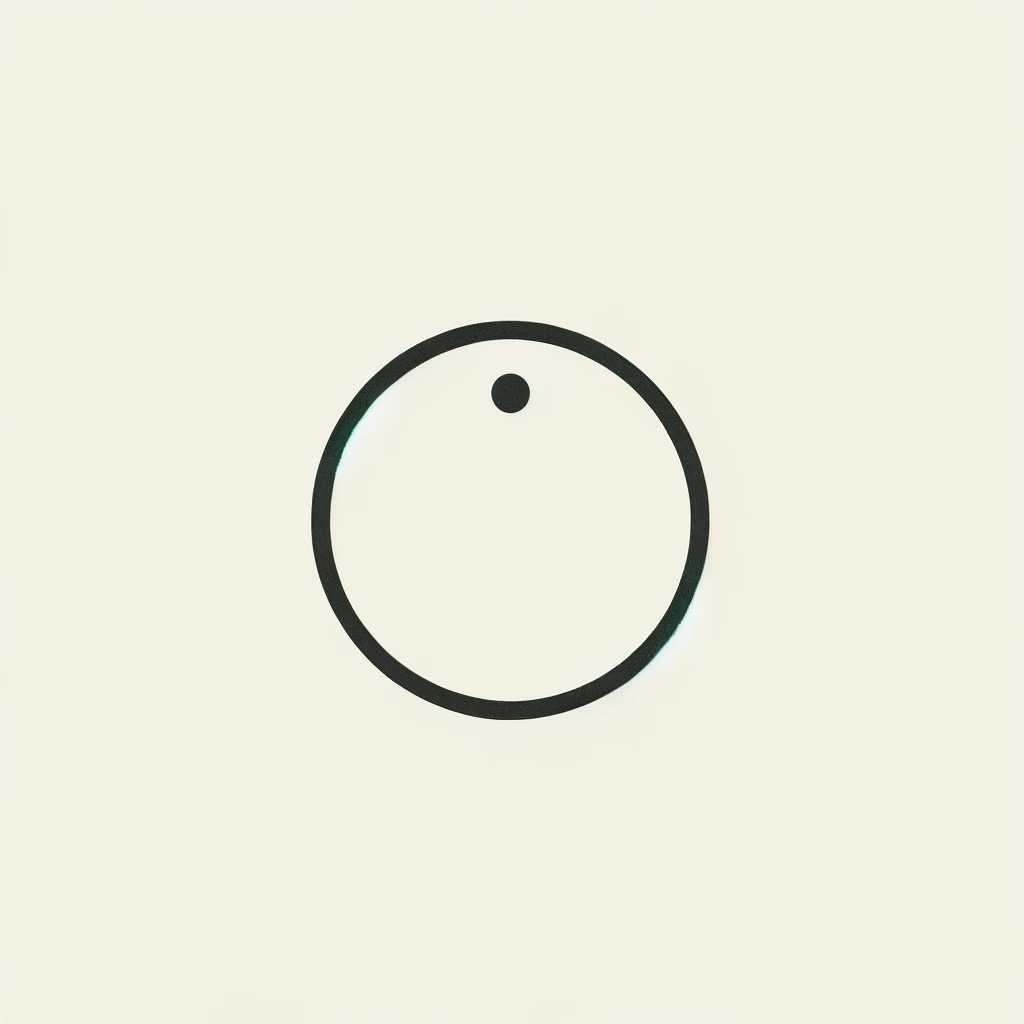
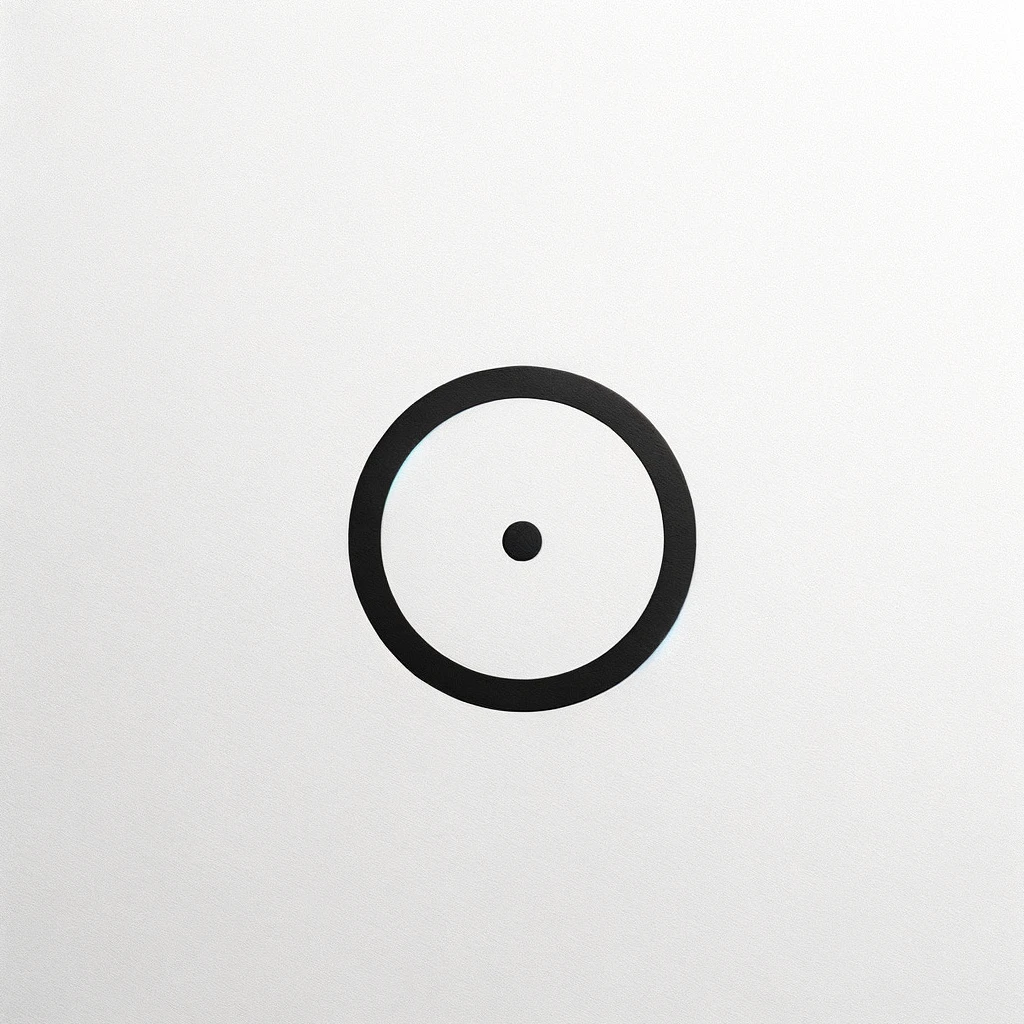
commit

diff --git a/blog/psychological_pendulum.html b/blog/psychological_pendulum.html
@@ -283,9 +283,9 @@
           are interdependent and cyclical, the environment and adaptation can give rise to each other, perpetuating the cycle of repetition compulsion.
           <br><br>
           <h2>Interlude - adaptation vs adaptable</h2>
-          There is a difference betweeen being adaptable, and having an adaptation. Consider the following two images.
+          There is a difference betweeen being adaptable, and having an adaptation. Consider the following two images.<br>
           <img src="https://pendulumpsychology.com.au/assets/adaptable.webp" style="max-width: 200px; margin: 10px;">
-          <img src="https://pendulumpsychology.com.au/assets/adapted.webp" style="max-width: 200px; margin: 10px;">
+          <img src="https://pendulumpsychology.com.au/assets/adapted.webp" style="max-width: 200px; margin: 10px;"><br>
           Imagine that the dot wants to be close to the edge of the circle. In some cases, it needs to be close to a particular part of the circle.
           In the image on the right, the dot is close to the wall of the circle. The dot is adapted to a situation which requires it to be near that point of the wall. However,
           relative to the picture on the left, the dot is is much further away from most areas on the circumference, and would therefore be worse off if the location was not known,
